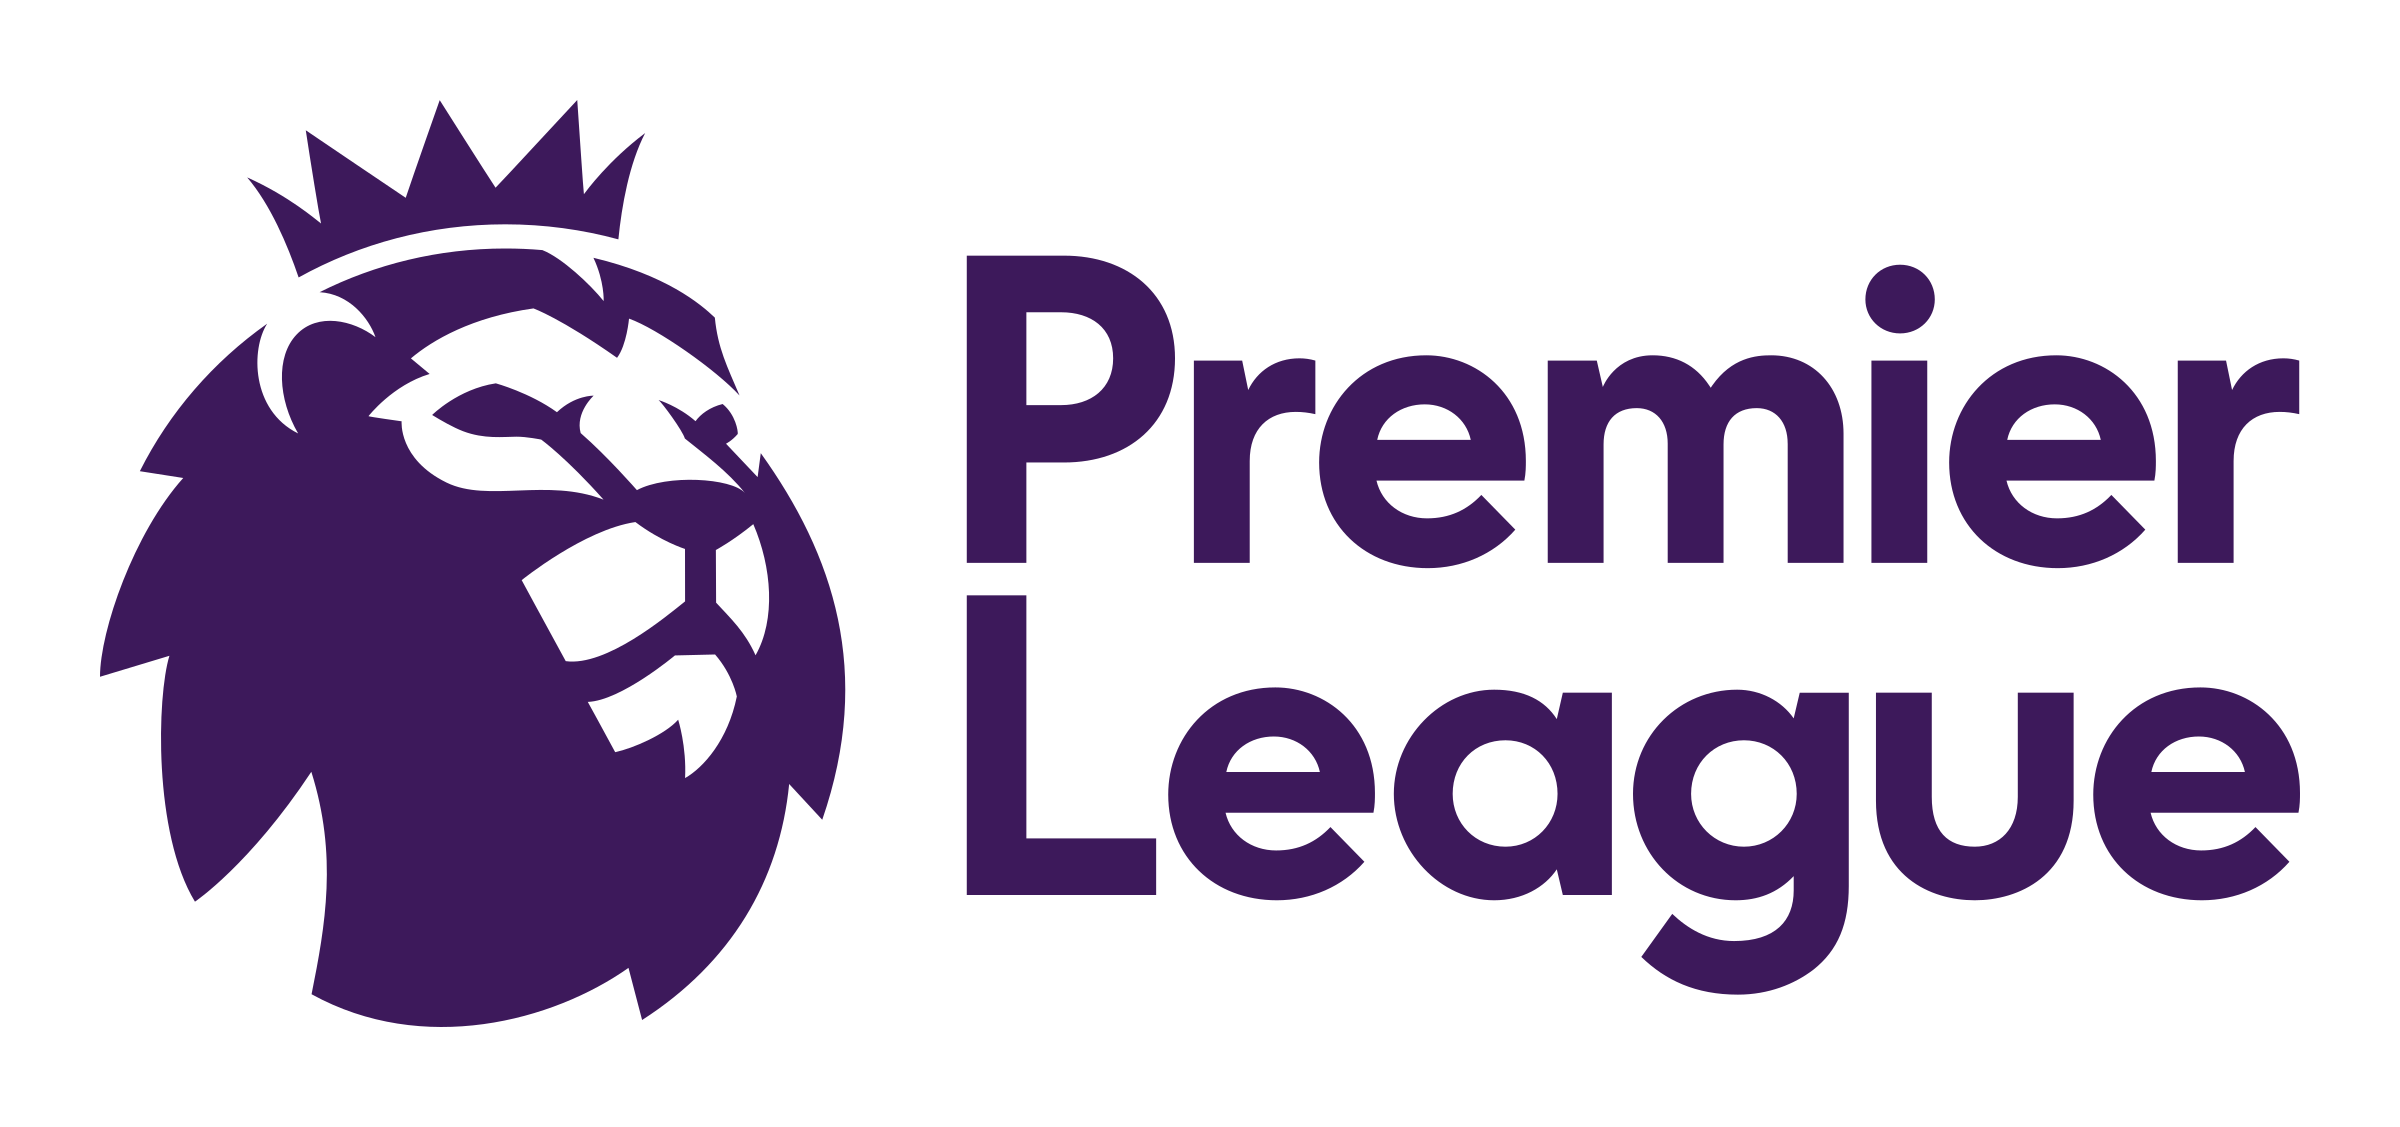
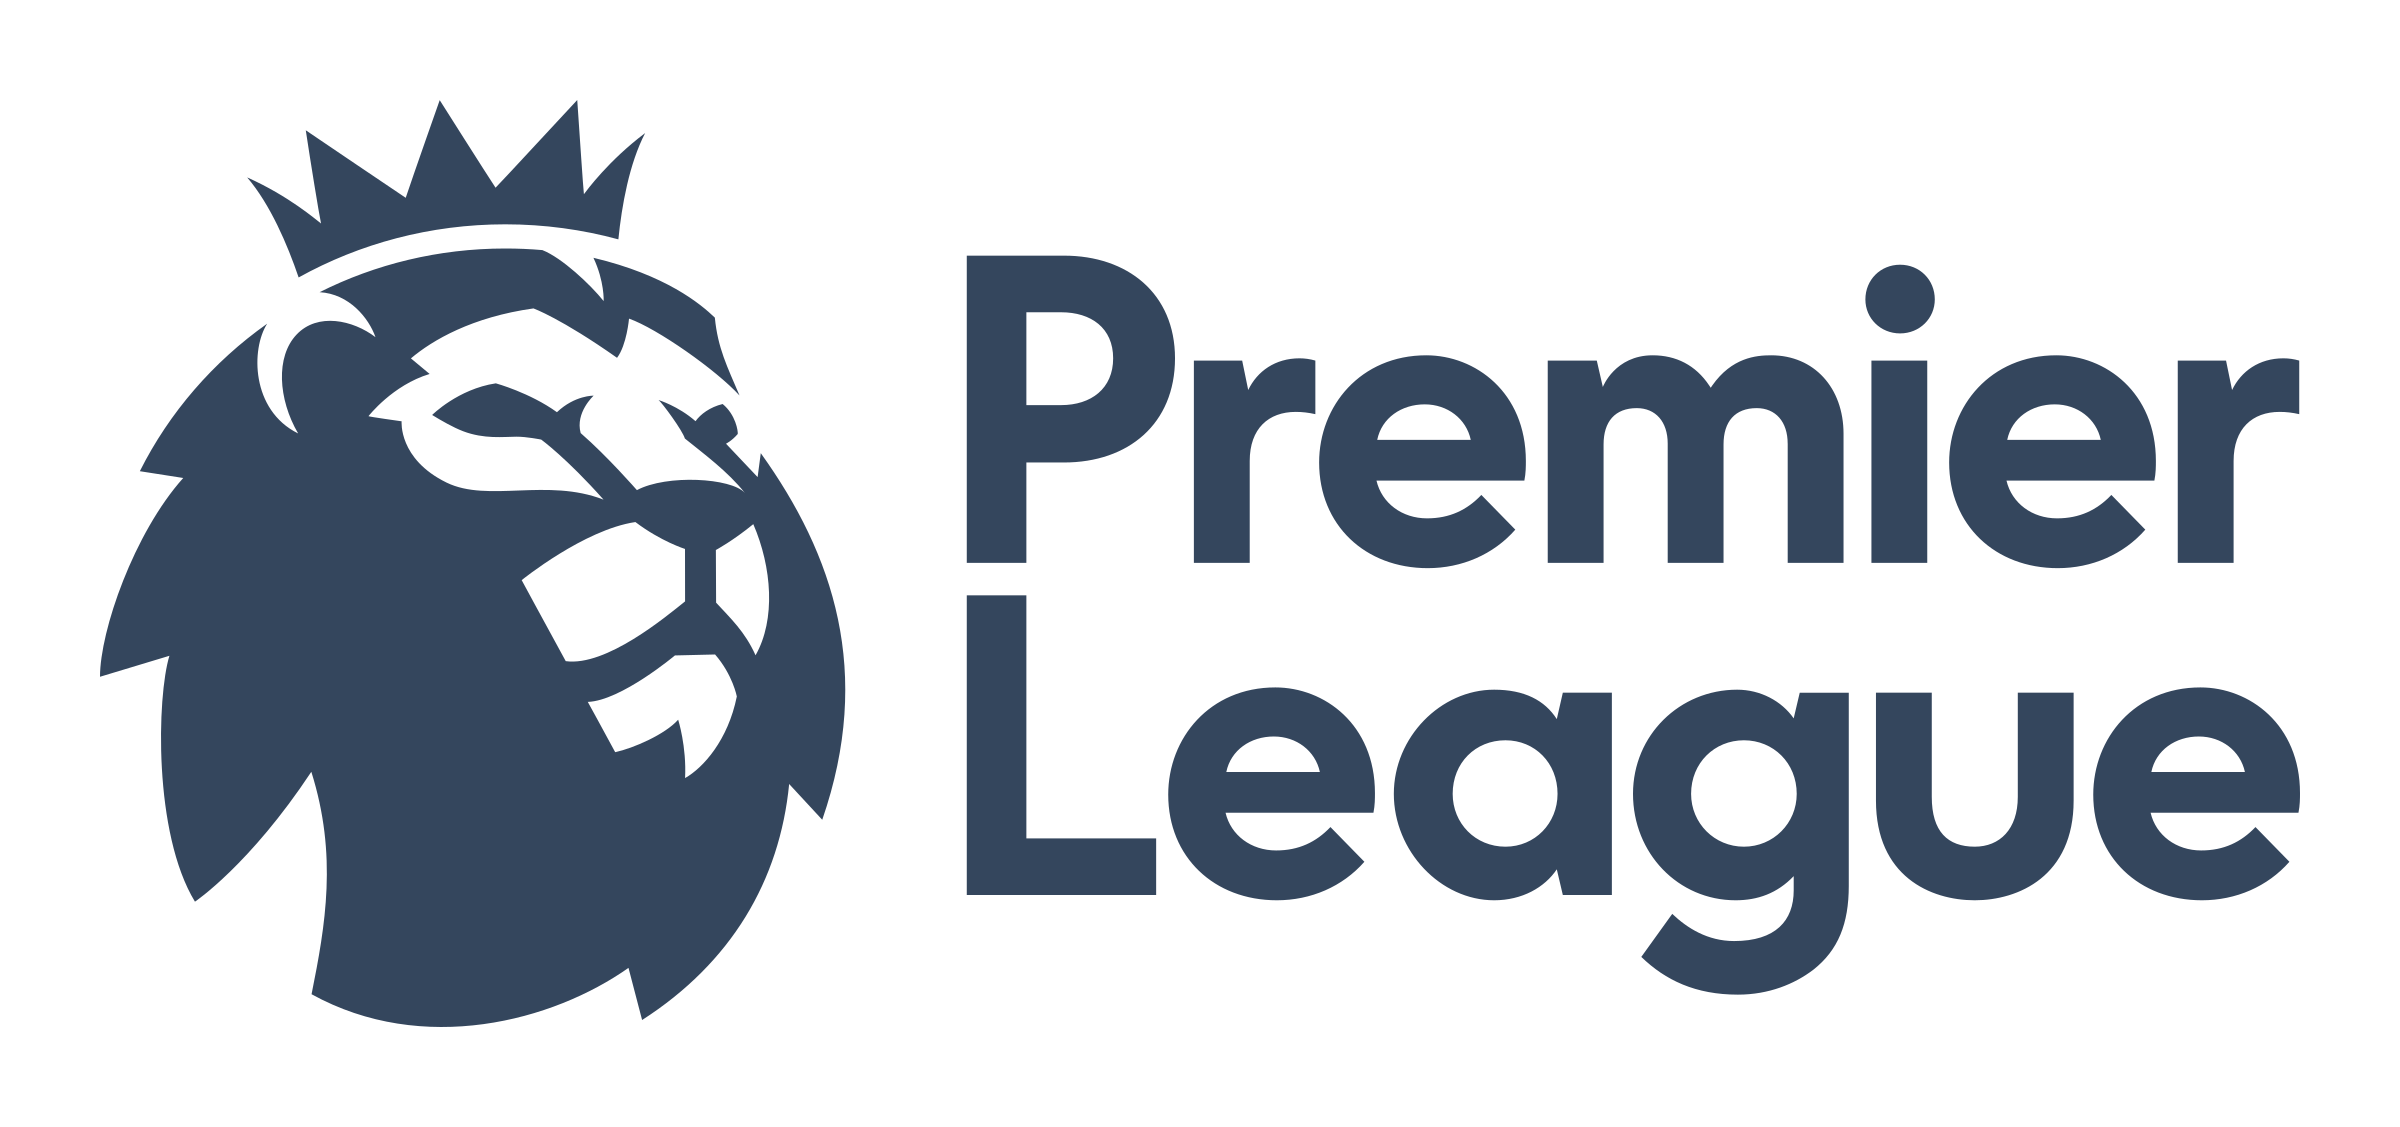
Updated description and recoloured images.

Changed region(s): [[0.0312, 0.0932, 0.9688, 0.9317], [0.375, 0.2174, 0.9688, 0.528]]

diff --git a/docs/_layouts/default.html b/docs/_layouts/default.html
@@ -100,8 +100,8 @@
           </div>
 
           <nav>
-            <a href="{{ site.baseurl }}/">Blog</a>
-            <a href="{{ site.baseurl }}/about">About</a>
+            <a href="https://aelek.me/">Blog</a>
+            <a href="https://aelek.me/about">About</a>
           </nav>
         </header>
       </div>

diff --git a/docs/404.md b/docs/404.md
@@ -6,4 +6,4 @@ permalink: /404.html
 
 Sorry, page you're looking for doesn't exist. You can try again by going [back to the homepage]({{ site.baseurl }}/).
 
-[<img src="{{ site.baseurl }}/images/epl-wide.png" alt="epl" style="height: 200px;padding: 20px 0 20px 0;/>]({{ site.baseurl }}/)
+[<img src="{{ site.baseurl }}/images/epl-wide.png" alt="epl" style="height: 200px;padding: 20px 0 20px 0;"/>]({{ site.baseurl }}/)
